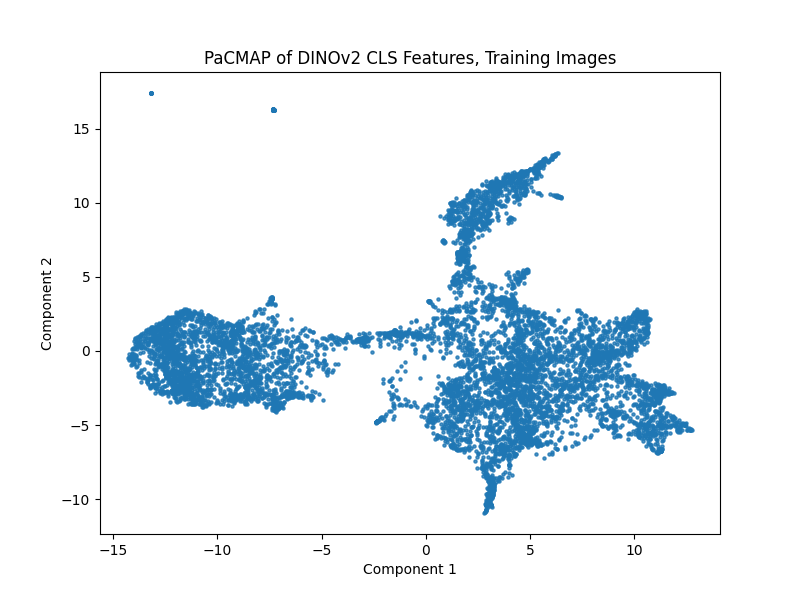
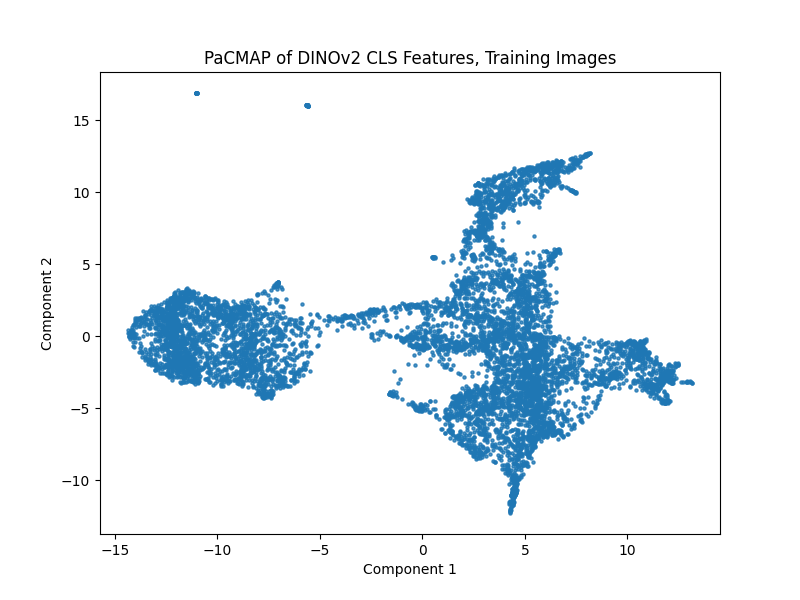
updated pacmap code

diff --git a/fungiclef/embedding/pacmap_plot.py b/fungiclef/embedding/pacmap_plot.py
@@ -6,14 +6,14 @@ import pacmap
 # Load embeddings from parquet file
 embeddings_path = os.path.join(
     os.environ["HOME"],
-    "scratch/fungiclef/embeddings/720p_fungi_train_embeddings.parquet",
+    "scratch/fungiclef/embeddings/images_only/fullsize_fungi_train_embeddings.parquet",
 )
 df = pd.read_parquet(embeddings_path)
 
 # Separate embeddings and labels
 image_names = df["filename"].values
 embeddings = df.drop(columns=["filename"]).values
-# embeddings are normalized from embedding.py
+# embeddings were normalized from embedding.py
 
 # Apply PaCMAP for dimensionality reduction to 2D
 print("Applying PaCMAP...")
